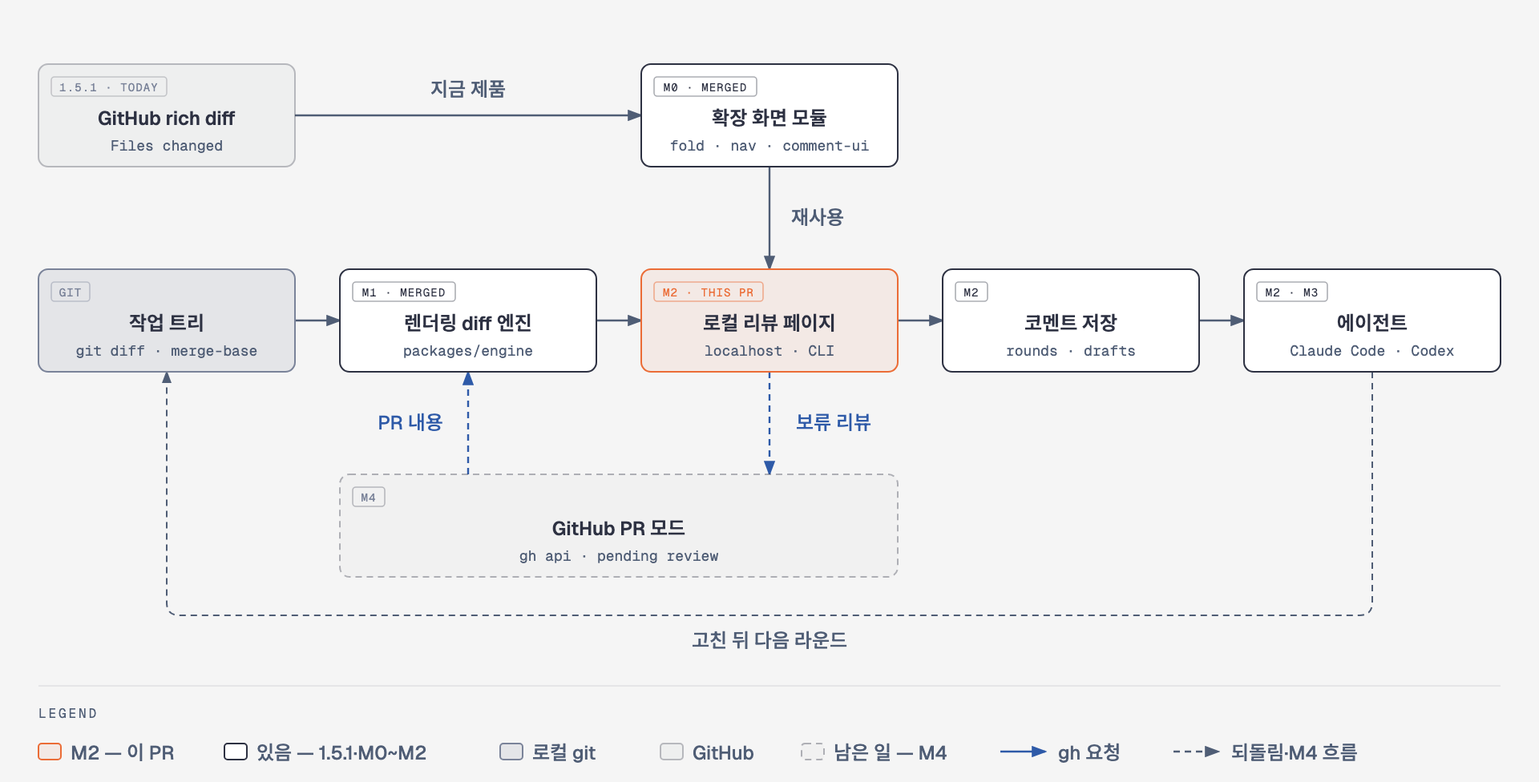
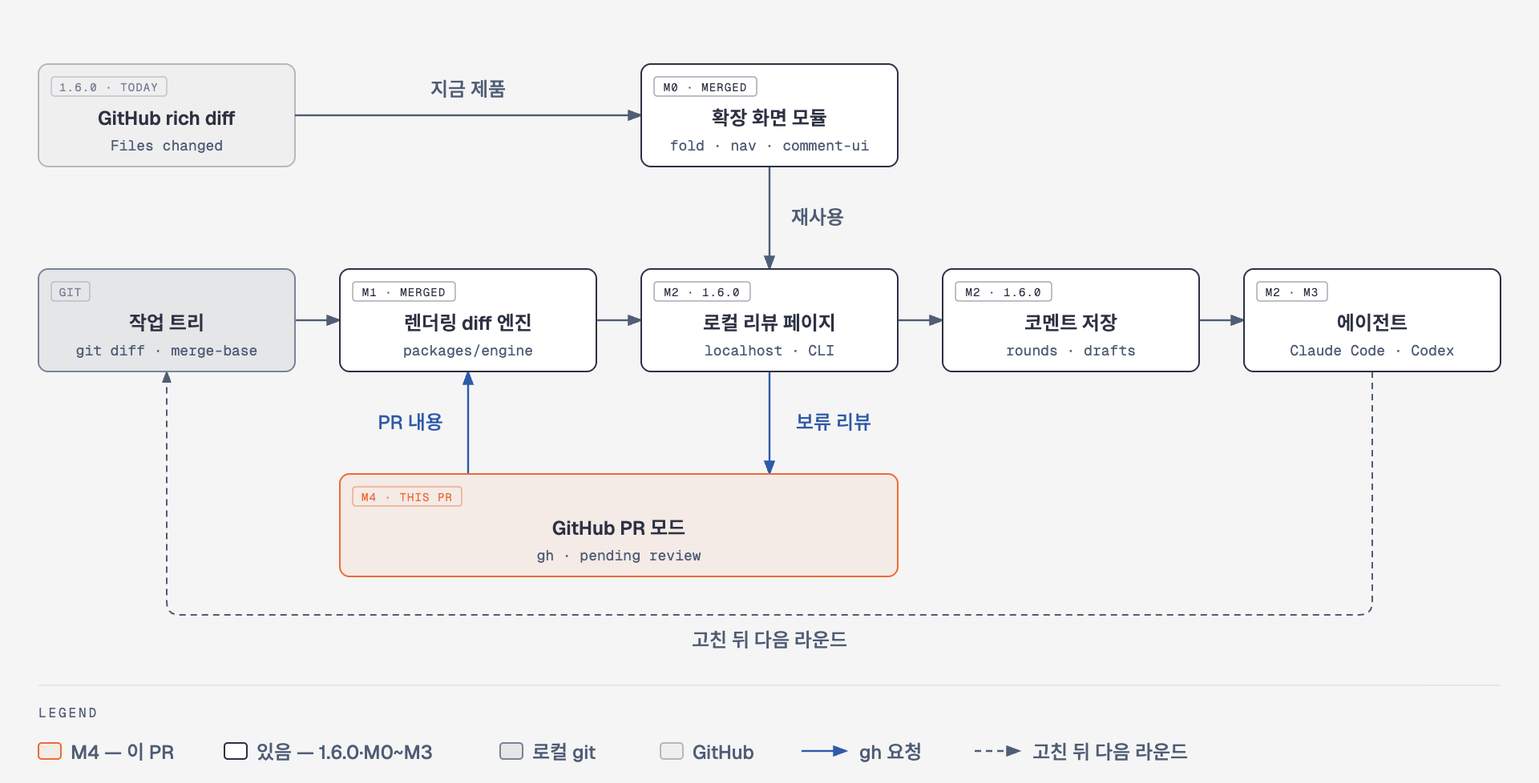
docs: local review M4 — PR mode in the package README, design status, roadmap, diagram

diff --git a/docs/local-review/diagrams/overview.html b/docs/local-review/diagrams/overview.html
@@ -34,12 +34,12 @@
 </head>
 <body>
   <div class="frame">
-    <p class="eyebrow">Architecture · 2026-10-18 · M2</p>
+    <p class="eyebrow">Architecture · 2026-10-23 · M4</p>
     <h1>Markdown Diff Cat 로컬 리뷰 — 전체 설계와 진행</h1>
     <div class="diagram-container">
       <svg viewBox="0 0 960 488" xmlns="http://www.w3.org/2000/svg" role="img" aria-labelledby="local-review-overview-title local-review-overview-desc">
         <title id="local-review-overview-title">Markdown Diff Cat 로컬 리뷰 — 전체 설계와 진행</title>
-        <desc id="local-review-overview-desc">크롬 확장의 화면 모듈과 렌더링 diff 엔진으로 로컬 git 변경을 리뷰하고 코멘트를 에이전트에게 넘기는 설계에서, 있는 것(1.5.1·M0·M1·M2)과 남은 것(M3·M4)을 나눠 보인다.</desc>
+        <desc id="local-review-overview-desc">크롬 확장의 화면 모듈과 렌더링 diff 엔진으로 로컬 git 변경과 GitHub PR을 리뷰하고 코멘트를 에이전트나 보류 중 리뷰로 넘기는 설계에서, 게시된 것(1.6.0·M0~M3)과 이 PR(M4)을 나눠 보인다.</desc>
         <defs>
           <marker id="arrow" markerWidth="8" markerHeight="6" refX="7" refY="3" orient="auto"><polygon points="0 0, 8 3, 0 6" fill="#4f5d75"/></marker>
           <marker id="arrow-accent" markerWidth="8" markerHeight="6" refX="7" refY="3" orient="auto"><polygon points="0 0, 8 3, 0 6" fill="#eb6c36"/></marker>
@@ -61,9 +61,9 @@
   <!-- 코멘트 저장 → 에이전트 (M2) -->
   <line x1="748" y1="200" x2="776" y2="200" stroke="#4f5d75" stroke-width="1.2" marker-end="url(#arrow)"/>
   <!-- GitHub PR → 엔진 (M4, gh) -->
-  <line x1="292" y1="296" x2="292" y2="232" stroke="#2e5aa8" stroke-width="1.2" stroke-dasharray="4,3" marker-end="url(#arrow-link)"/>
+  <line x1="292" y1="296" x2="292" y2="232" stroke="#2e5aa8" stroke-width="1.2" marker-end="url(#arrow-link)"/>
   <!-- 페이지 → GitHub PR (M4, 보류 중 리뷰) -->
-  <line x1="480" y1="232" x2="480" y2="296" stroke="#2e5aa8" stroke-width="1.2" stroke-dasharray="4,3" marker-end="url(#arrow-link)"/>
+  <line x1="480" y1="232" x2="480" y2="296" stroke="#2e5aa8" stroke-width="1.2" marker-end="url(#arrow-link)"/>
   <!-- 에이전트 → 작업 트리 (고친 뒤 다음 라운드) -->
   <path d="M 856,232 V 376 Q 856,384 848,384 H 112 Q 104,384 104,376 V 232" fill="none" stroke="#4f5d75" stroke-width="1" stroke-dasharray="4,3" marker-end="url(#arrow)"/>
 
@@ -86,7 +86,7 @@
   <rect x="24" y="40" width="160" height="64" rx="6" fill="#f5f5f5"/>
   <rect x="24" y="40" width="160" height="64" rx="6" fill="rgba(45,49,66,0.03)" stroke="rgba(45,49,66,0.30)" stroke-width="1"/>
   <rect x="32" y="48" width="72" height="12" rx="2" fill="transparent" stroke="rgba(45,49,66,0.22)" stroke-width="0.8"/>
-  <text x="68" y="57" fill="#7a8399" font-size="7" font-family="'Geist Mono', monospace" text-anchor="middle" letter-spacing="0.08em">1.5.1 · TODAY</text>
+  <text x="68" y="57" fill="#7a8399" font-size="7" font-family="'Geist Mono', monospace" text-anchor="middle" letter-spacing="0.08em">1.6.0 · TODAY</text>
   <text x="104" y="78" fill="#2d3142" font-size="12" font-weight="600" font-family="'Geist', 'Noto Sans KR', 'Apple SD Gothic Neo', 'Malgun Gothic', sans-serif" text-anchor="middle">GitHub rich diff</text>
   <text x="104" y="94" fill="#4f5d75" font-size="9" font-family="'Geist Mono', monospace" text-anchor="middle">Files changed</text>
 
@@ -116,17 +116,17 @@
 
   <!-- node: 로컬 리뷰 페이지 -->
   <rect x="400" y="168" width="160" height="64" rx="6" fill="#f5f5f5"/>
-  <rect x="400" y="168" width="160" height="64" rx="6" fill="rgba(235,108,54,0.08)" stroke="#eb6c36" stroke-width="1"/>
-  <rect x="408" y="176" width="68" height="12" rx="2" fill="transparent" stroke="rgba(235,108,54,0.50)" stroke-width="0.8"/>
-  <text x="442" y="185" fill="#eb6c36" font-size="7" font-family="'Geist Mono', monospace" text-anchor="middle" letter-spacing="0.08em">M2 · THIS PR</text>
+  <rect x="400" y="168" width="160" height="64" rx="6" fill="#ffffff" stroke="#2d3142" stroke-width="1"/>
+  <rect x="408" y="176" width="60" height="12" rx="2" fill="transparent" stroke="rgba(45,49,66,0.40)" stroke-width="0.8"/>
+  <text x="438" y="185" fill="#2d3142" font-size="7" font-family="'Geist Mono', monospace" text-anchor="middle" letter-spacing="0.08em">M2 · 1.6.0</text>
   <text x="480" y="206" fill="#2d3142" font-size="12" font-weight="600" font-family="'Geist', 'Noto Sans KR', 'Apple SD Gothic Neo', 'Malgun Gothic', sans-serif" text-anchor="middle">로컬 리뷰 페이지</text>
   <text x="480" y="222" fill="#4f5d75" font-size="9" font-family="'Geist Mono', monospace" text-anchor="middle">localhost · CLI</text>
 
   <!-- node: 코멘트 저장 -->
   <rect x="588" y="168" width="160" height="64" rx="6" fill="#f5f5f5"/>
   <rect x="588" y="168" width="160" height="64" rx="6" fill="#ffffff" stroke="#2d3142" stroke-width="1"/>
-  <rect x="596" y="176" width="20" height="12" rx="2" fill="transparent" stroke="rgba(45,49,66,0.40)" stroke-width="0.8"/>
-  <text x="606" y="185" fill="#2d3142" font-size="7" font-family="'Geist Mono', monospace" text-anchor="middle" letter-spacing="0.08em">M2</text>
+  <rect x="596" y="176" width="60" height="12" rx="2" fill="transparent" stroke="rgba(45,49,66,0.40)" stroke-width="0.8"/>
+  <text x="626" y="185" fill="#2d3142" font-size="7" font-family="'Geist Mono', monospace" text-anchor="middle" letter-spacing="0.08em">M2 · 1.6.0</text>
   <text x="668" y="206" fill="#2d3142" font-size="12" font-weight="600" font-family="'Geist', 'Noto Sans KR', 'Apple SD Gothic Neo', 'Malgun Gothic', sans-serif" text-anchor="middle">코멘트 저장</text>
   <text x="668" y="222" fill="#4f5d75" font-size="9" font-family="'Geist Mono', monospace" text-anchor="middle">rounds · drafts</text>
 
@@ -140,32 +140,30 @@
 
   <!-- node: GitHub PR 모드 -->
   <rect x="212" y="296" width="348" height="64" rx="6" fill="#f5f5f5"/>
-  <rect x="212" y="296" width="348" height="64" rx="6" fill="rgba(45,49,66,0.02)" stroke="rgba(45,49,66,0.35)" stroke-width="1" stroke-dasharray="4,3"/>
-  <rect x="220" y="304" width="20" height="12" rx="2" fill="transparent" stroke="rgba(45,49,66,0.30)" stroke-width="0.8"/>
-  <text x="230" y="313" fill="#7a8399" font-size="7" font-family="'Geist Mono', monospace" text-anchor="middle" letter-spacing="0.08em">M4</text>
+  <rect x="212" y="296" width="348" height="64" rx="6" fill="rgba(235,108,54,0.08)" stroke="#eb6c36" stroke-width="1"/>
+  <rect x="220" y="304" width="68" height="12" rx="2" fill="transparent" stroke="rgba(235,108,54,0.50)" stroke-width="0.8"/>
+  <text x="254" y="313" fill="#eb6c36" font-size="7" font-family="'Geist Mono', monospace" text-anchor="middle" letter-spacing="0.08em">M4 · THIS PR</text>
   <text x="386" y="334" fill="#2d3142" font-size="12" font-weight="600" font-family="'Geist', 'Noto Sans KR', 'Apple SD Gothic Neo', 'Malgun Gothic', sans-serif" text-anchor="middle">GitHub PR 모드</text>
-  <text x="386" y="350" fill="#4f5d75" font-size="9" font-family="'Geist Mono', monospace" text-anchor="middle">gh api · pending review</text>
+  <text x="386" y="350" fill="#4f5d75" font-size="9" font-family="'Geist Mono', monospace" text-anchor="middle">gh · pending review</text>
 
   <!-- legend -->
   <line x1="24" y1="428" x2="936" y2="428" stroke="rgba(45,49,66,0.10)" stroke-width="0.8"/>
   <text x="24" y="448" fill="#4f5d75" font-size="8" font-family="'Geist Mono', monospace" letter-spacing="0.18em">LEGEND</text>
   <rect x="24" y="464" width="14" height="10" rx="2" fill="rgba(235,108,54,0.08)" stroke="#eb6c36" stroke-width="1"/>
-  <text x="44" y="474" fill="#4f5d75" font-size="12" font-weight="500" font-family="'Geist', 'Noto Sans KR', 'Apple SD Gothic Neo', 'Malgun Gothic', sans-serif">M2 — 이 PR</text>
+  <text x="44" y="474" fill="#4f5d75" font-size="12" font-weight="500" font-family="'Geist', 'Noto Sans KR', 'Apple SD Gothic Neo', 'Malgun Gothic', sans-serif">M4 — 이 PR</text>
   <rect x="140" y="464" width="14" height="10" rx="2" fill="#ffffff" stroke="#2d3142" stroke-width="1"/>
-  <text x="160" y="474" fill="#4f5d75" font-size="12" font-weight="500" font-family="'Geist', 'Noto Sans KR', 'Apple SD Gothic Neo', 'Malgun Gothic', sans-serif">있음 — 1.5.1·M0~M2</text>
+  <text x="160" y="474" fill="#4f5d75" font-size="12" font-weight="500" font-family="'Geist', 'Noto Sans KR', 'Apple SD Gothic Neo', 'Malgun Gothic', sans-serif">있음 — 1.6.0·M0~M3</text>
   <rect x="312" y="464" width="14" height="10" rx="2" fill="rgba(79,93,117,0.10)" stroke="#7a8399" stroke-width="1"/>
   <text x="332" y="474" fill="#4f5d75" font-size="12" font-weight="500" font-family="'Geist', 'Noto Sans KR', 'Apple SD Gothic Neo', 'Malgun Gothic', sans-serif">로컬 git</text>
   <rect x="412" y="464" width="14" height="10" rx="2" fill="rgba(45,49,66,0.03)" stroke="rgba(45,49,66,0.30)" stroke-width="1"/>
   <text x="432" y="474" fill="#4f5d75" font-size="12" font-weight="500" font-family="'Geist', 'Noto Sans KR', 'Apple SD Gothic Neo', 'Malgun Gothic', sans-serif">GitHub</text>
-  <rect x="500" y="464" width="14" height="10" rx="2" fill="rgba(45,49,66,0.02)" stroke="rgba(45,49,66,0.35)" stroke-width="1" stroke-dasharray="4,3"/>
-  <text x="520" y="474" fill="#4f5d75" font-size="12" font-weight="500" font-family="'Geist', 'Noto Sans KR', 'Apple SD Gothic Neo', 'Malgun Gothic', sans-serif">남은 일 — M4</text>
-  <line x1="624" y1="469" x2="652" y2="469" stroke="#2e5aa8" stroke-width="1.2" marker-end="url(#arrow-link)"/>
-  <text x="660" y="474" fill="#4f5d75" font-size="12" font-weight="500" font-family="'Geist', 'Noto Sans KR', 'Apple SD Gothic Neo', 'Malgun Gothic', sans-serif">gh 요청</text>
-  <line x1="732" y1="469" x2="760" y2="469" stroke="#4f5d75" stroke-width="1.2" stroke-dasharray="4,3" marker-end="url(#arrow)"/>
-  <text x="768" y="474" fill="#4f5d75" font-size="12" font-weight="500" font-family="'Geist', 'Noto Sans KR', 'Apple SD Gothic Neo', 'Malgun Gothic', sans-serif">되돌림·M4 흐름</text>
+  <line x1="500" y1="469" x2="528" y2="469" stroke="#2e5aa8" stroke-width="1.2" marker-end="url(#arrow-link)"/>
+  <text x="536" y="474" fill="#4f5d75" font-size="12" font-weight="500" font-family="'Geist', 'Noto Sans KR', 'Apple SD Gothic Neo', 'Malgun Gothic', sans-serif">gh 요청</text>
+  <line x1="608" y1="469" x2="636" y2="469" stroke="#4f5d75" stroke-width="1.2" stroke-dasharray="4,3" marker-end="url(#arrow)"/>
+  <text x="644" y="474" fill="#4f5d75" font-size="12" font-weight="500" font-family="'Geist', 'Noto Sans KR', 'Apple SD Gothic Neo', 'Malgun Gothic', sans-serif">고친 뒤 다음 라운드</text>
       </svg>
     </div>
-    <p class="note">실선 상자는 있는 것이다. 크롬 확장 1.5.1은 GitHub가 그린 rich diff를 다듬고, M0에서 그 화면 모듈을 확장 밖에서도 쓰게 떼어 냈고, M1은 로컬 git의 옛·새 원문으로 GitHub와 같은 표기의 HTML을 그리는 엔진이다. M2(주황)는 리뷰 페이지·로컬 서버·CLI·코멘트 저장·에이전트에게 넘기기다. 점선은 남은 일 — M3 Codex 주석, M4 GitHub PR 모드.</p>
+    <p class="note">크롬 확장은 GitHub가 그린 rich diff를 다듬고, M0에서 그 화면 모듈을 확장 밖에서도 쓰게 떼어 냈고, M1은 로컬 git의 옛·새 원문으로 GitHub와 같은 표기의 HTML을 그리는 엔진이다. M2는 리뷰 페이지·로컬 서버·CLI·코멘트 저장·에이전트에게 넘기기, M3은 Codex 주석이다(1.6.0으로 게시). M4(주황)는 GitHub PR 모드 — gh로 PR을 받아 같은 페이지에 그리고, 코멘트는 사람이 누를 때 내 보류 중 리뷰에만 넣는다.</p>
   </div>
 </body>
 </html>

diff --git a/packages/review/test/readme.test.ts b/packages/review/test/readme.test.ts
@@ -11,6 +11,15 @@ describe('npm README', () => {
     expect(readme).toContain('Nothing leaves your machine by default.');
     expect(readme).toContain('only through the GitHub CLI');
   });
+  it('PR 모드 — 명령·gh·보류 중 리뷰만·받은 ref·제출은 사람', () => {
+    expect(readme).toContain('## Review a pull request');
+    expect(readme).toContain('review --pr <number|URL>');
+    expect(readme).toContain('gh auth login');
+    expect(readme).toContain('Add to pending review');
+    expect(readme).toContain('You submit the review on GitHub');
+    expect(readme).toContain('refs/markdown-diff-cat/');
+    expect(readme).not.toContain('A pull request mode is planned');
+  });
   it('개인 홈 경로를 싣지 않는다(공개 패키지)', () => {
     expect(readme).not.toMatch(/\/Users\/[a-z]|\/home\/[a-z]/);
   });

diff --git a/docs/local-review/diagrams/src/d1_overview.py b/docs/local-review/diagrams/src/d1_overview.py
@@ -21,9 +21,9 @@ P.append(f'''
   <!-- 코멘트 저장 → 에이전트 (M2) -->
   <line x1="748" y1="200" x2="776" y2="200" stroke="{MUTED}" stroke-width="1.2" marker-end="url(#arrow)"/>
   <!-- GitHub PR → 엔진 (M4, gh) -->
-  <line x1="292" y1="296" x2="292" y2="232" stroke="{LINK}" stroke-width="1.2" stroke-dasharray="4,3" marker-end="url(#arrow-link)"/>
+  <line x1="292" y1="296" x2="292" y2="232" stroke="{LINK}" stroke-width="1.2" marker-end="url(#arrow-link)"/>
   <!-- 페이지 → GitHub PR (M4, 보류 중 리뷰) -->
-  <line x1="480" y1="232" x2="480" y2="296" stroke="{LINK}" stroke-width="1.2" stroke-dasharray="4,3" marker-end="url(#arrow-link)"/>
+  <line x1="480" y1="232" x2="480" y2="296" stroke="{LINK}" stroke-width="1.2" marker-end="url(#arrow-link)"/>
   <!-- 에이전트 → 작업 트리 (고친 뒤 다음 라운드) -->
   <path d="M 856,232 V 376 Q 856,384 848,384 H 112 Q 104,384 104,376 V 232" fill="none" stroke="{MUTED}" stroke-width="1" stroke-dasharray="4,3" marker-end="url(#arrow)"/>''')
 
@@ -39,24 +39,24 @@ for (cx, cy, t, c) in [
     P.append(svg)
 
 # --- nodes ---
-P.append(node(24, 40, 160, 64, 'external', '1.5.1 · TODAY', 'GitHub rich diff', 'Files changed'))
+P.append(node(24, 40, 160, 64, 'external', '1.6.0 · TODAY', 'GitHub rich diff', 'Files changed'))
 P.append(node(400, 40, 160, 64, 'backend', 'M0 · MERGED', '확장 화면 모듈', 'fold · nav · comment-ui'))
 P.append(node(24, 168, 160, 64, 'input', 'GIT', '작업 트리', 'git diff · merge-base'))
 P.append(node(212, 168, 160, 64, 'backend', 'M1 · MERGED', '렌더링 diff 엔진', 'packages/engine'))
-P.append(node(400, 168, 160, 64, 'focal', 'M2 · THIS PR', '로컬 리뷰 페이지', 'localhost · CLI'))
-P.append(node(588, 168, 160, 64, 'backend', 'M2', '코멘트 저장', 'rounds · drafts'))
+P.append(node(400, 168, 160, 64, 'backend', 'M2 · 1.6.0', '로컬 리뷰 페이지', 'localhost · CLI'))
+P.append(node(588, 168, 160, 64, 'backend', 'M2 · 1.6.0', '코멘트 저장', 'rounds · drafts'))
 P.append(node(776, 168, 160, 64, 'backend', 'M2 · M3', '에이전트', 'Claude Code · Codex'))
-P.append(node(212, 296, 348, 64, 'optional', 'M4', 'GitHub PR 모드', 'gh api · pending review'))
+P.append(node(212, 296, 348, 64, 'focal', 'M4 · THIS PR', 'GitHub PR 모드', 'gh · pending review'))
 
 P.append(legend(428, [
-    ('focal', 'M2 — 이 PR'), ('backend', '있음 — 1.5.1·M0~M2'), ('input', '로컬 git'), ('external', 'GitHub'),
-    ('optional', '남은 일 — M4'), ('arrow-link', 'gh 요청'), ('arrow-dash', '되돌림·M4 흐름'),
+    ('focal', 'M4 — 이 PR'), ('backend', '있음 — 1.6.0·M0~M3'), ('input', '로컬 git'), ('external', 'GitHub'),
+    ('arrow-link', 'gh 요청'), ('arrow-dash', '고친 뒤 다음 라운드'),
 ]))
 
-note = '''<p class="note">실선 상자는 있는 것이다. 크롬 확장 1.5.1은 GitHub가 그린 rich diff를 다듬고, M0에서 그 화면 모듈을 확장 밖에서도 쓰게 떼어 냈고, M1은 로컬 git의 옛·새 원문으로 GitHub와 같은 표기의 HTML을 그리는 엔진이다. M2(주황)는 리뷰 페이지·로컬 서버·CLI·코멘트 저장·에이전트에게 넘기기다. 점선은 남은 일 — M3 Codex 주석, M4 GitHub PR 모드.</p>'''
+note = '''<p class="note">크롬 확장은 GitHub가 그린 rich diff를 다듬고, M0에서 그 화면 모듈을 확장 밖에서도 쓰게 떼어 냈고, M1은 로컬 git의 옛·새 원문으로 GitHub와 같은 표기의 HTML을 그리는 엔진이다. M2는 리뷰 페이지·로컬 서버·CLI·코멘트 저장·에이전트에게 넘기기, M3은 Codex 주석이다(1.6.0으로 게시). M4(주황)는 GitHub PR 모드 — gh로 PR을 받아 같은 페이지에 그리고, 코멘트는 사람이 누를 때 내 보류 중 리뷰에만 넣는다.</p>'''
 
 open(OUT, 'w').write(page(
-    'local-review-overview', 'Architecture · 2026-10-18 · M2', 'Markdown Diff Cat 로컬 리뷰 — 전체 설계와 진행',
-    '크롬 확장의 화면 모듈과 렌더링 diff 엔진으로 로컬 git 변경을 리뷰하고 코멘트를 에이전트에게 넘기는 설계에서, 있는 것(1.5.1·M0·M1·M2)과 남은 것(M3·M4)을 나눠 보인다.',
+    'local-review-overview', 'Architecture · 2026-10-23 · M4', 'Markdown Diff Cat 로컬 리뷰 — 전체 설계와 진행',
+    '크롬 확장의 화면 모듈과 렌더링 diff 엔진으로 로컬 git 변경과 GitHub PR을 리뷰하고 코멘트를 에이전트나 보류 중 리뷰로 넘기는 설계에서, 게시된 것(1.6.0·M0~M3)과 이 PR(M4)을 나눠 보인다.',
     VW, VH, '\n'.join(P), note))
 print('wrote', OUT)

diff --git a/docs/local-review/README.md b/docs/local-review/README.md
@@ -1,6 +1,6 @@
 # 로컬 리뷰 — GitHub PR 밖에서 렌더링 마크다운 diff를 보고 코멘트하기
 
-> 최종 확인 2026-10-18 · [ROADMAP](../../ROADMAP.md) · 엔진: [packages/engine](../../packages/engine/README.md) · GitHub와 받아들인 차이: [KNOWN-DIFFERENCES](../../packages/engine/parity/KNOWN-DIFFERENCES.md)
+> 최종 확인 2026-10-23 · [ROADMAP](../../ROADMAP.md) · 엔진: [packages/engine](../../packages/engine/README.md) · GitHub와 받아들인 차이: [KNOWN-DIFFERENCES](../../packages/engine/parity/KNOWN-DIFFERENCES.md)
 
 이 문서는 로컬 리뷰의 설계, 지금까지 만든 것, 남은 일을 한곳에 모은 기록이다. 마일스톤 PR이 병합될 때마다 **2. 지금 어디까지 왔나**와 **6. 남은 일**을 같은 PR에서 고친다.
 
@@ -8,11 +8,11 @@
 
 코딩 에이전트가 고친 `AGENTS.md`·`SKILL.md`·문서 같은 마크다운을, PR을 열기 전에 **내 컴퓨터에서** GitHub rich diff와 같은 렌더링 diff로 보고, 블록에 코멘트를 달아 에이전트에게 넘기는 도구를 만든다.
 
-크롬 확장(1.5.1)은 GitHub PR "Files changed" 화면에서만 돈다. GitHub가 그린 rich diff를 확장이 다듬는 방식이라, GitHub에 올리기 전의 변경에는 쓸 수 없다. 로컬 리뷰는 같은 화면(접기·표 합치기·이동·코멘트 상자)을 로컬 git 변경에 그대로 쓰게 한다.
+크롬 확장(1.6.0)은 GitHub PR "Files changed" 화면에서만 돈다. GitHub가 그린 rich diff를 확장이 다듬는 방식이라, GitHub에 올리기 전의 변경에는 쓸 수 없다. 로컬 리뷰는 같은 화면(접기·표 합치기·이동·코멘트 상자)을 로컬 git 변경에 그대로 쓰게 한다.
 
 ## 1. 전체 설계
 
-<img src="diagrams/overview.png" width="760" alt="전체 설계와 진행 — 작업 트리에서 렌더링 diff 엔진, 로컬 리뷰 페이지, 코멘트 저장, 에이전트로 가는 흐름과 GitHub PR 모드. 엔진(M1)과 확장 화면 모듈(M0)은 있고, 페이지·저장·에이전트·PR 모드는 점선(남은 일)">
+<img src="diagrams/overview.png" width="760" alt="전체 설계와 진행 — 작업 트리에서 렌더링 diff 엔진, 로컬 리뷰 페이지, 코멘트 저장, 에이전트로 가는 흐름과 GitHub PR 모드. M0~M3은 1.6.0으로 게시됐고, GitHub PR 모드(M4)가 이 PR이다">
 
 [그림 HTML](diagrams/overview.html)
 
@@ -23,23 +23,23 @@
 | 로컬 리뷰 페이지 + CLI | 로컬 서버가 엔진 HTML을 페이지로 보여 주고, 확장 화면 모듈로 접기·코멘트를 붙인다 | `packages/review` — **M2** |
 | 코멘트 저장 | 라운드·보낸 코멘트·임시 글을 `.git` 밖 사용자 상태 폴더에 | **M2** |
 | 에이전트에게 넘기기 | 코멘트를 정해진 형식으로 에이전트(Claude Code)에게, 고친 뒤 `--since-last`로 다음 라운드 | **M2**(Claude Code) · **M3**(Codex 주석) |
-| GitHub PR 모드 | `gh`로 PR 내용을 받아 같은 페이지에서 보고, 코멘트는 보류 중 리뷰(pending review)에 올린다 — 공개는 사람이 GitHub에서 | **M4** |
+| GitHub PR 모드 | `gh`로 PR 내용을 받아 같은 페이지에서 보고, 코멘트는 보류 중 리뷰(pending review)에 올린다 — 공개는 사람이 GitHub에서 | **M4** — `packages/review/src/`의 `gh.ts`·`pr.ts`·`github.ts`·`hunks.ts`·`pr-session.ts` |
 
 같은 엔진이 확장 안에서도 돈다 — GitHub가 렌더링 diff를 못 만든 큰 md 파일을 브라우저에서 그린다([docs/local-render](../local-render/README.md)).
 
 설계의 중심은 **엔진이 GitHub와 같은 표기의 HTML을 낸다**는 것이다. 그러면 확장이 GitHub 화면에서 쓰던 접기·표 합치기·이동·코멘트 코드를 다시 쓰지 않고 그대로 쓸 수 있고, 로컬에서 본 모양과 PR에서 볼 모양이 같다. 그래서 새로 만드는 것은 엔진과 페이지·서버·CLI뿐이다.
 
-## 2. 지금 어디까지 왔나 (2026-10-18)
+## 2. 지금 어디까지 왔나 (2026-10-23)
 
-설계만 한 것이 아니다. 확장 리팩터(M0)와 엔진(M1)은 병합됐고, 사람이 실제로 쓰는 도구(M2)는 구현을 끝내 PR이 열려 있다(브랜치 `feat/local-review-m2`).
+M0~M3은 병합됐고 1.6.0으로 스토어·GitHub Release·npm(`markdown-diff-cat@1.6.0`)에 게시됐다(2026-10-22). M4(GitHub PR 모드)는 구현을 끝내 PR을 연다(브랜치 `feat/local-review-m4`). M4가 병합되면 MVP 범위(스펙 §11-1)의 마일스톤이 모두 끝난다 — 남는 것은 사람이 하는 실기 점검(Codex·PR 모드)과 testbed 쓰기 E2E 실행이다.
 
 | 마일스톤 | 무엇 | 상태 |
 |---|---|---|
 | **M0** | 확장 리팩터(동작 그대로) — markdown-it 15, 공용 타입(`src/types.ts`)·렌더링 표기(`src/prose-markup.ts`), `align` 한도 인자, `i18n` 밖에서 쓰기, `comment-ui` 옵션, `comments.ts`의 화면 동작을 `CommentController` + `CommentBackend`로 분리, `packages/*` 워크스페이스 | ✅ **병합** — [#47](https://github.com/drum-grammer/GITHUB-MD-DIFF/pull/47)(2026-10-17). 관문: `pnpm verify pr` 7/7, 연결률 기준선 그대로 |
 | **M1** | 렌더링 diff 엔진 `packages/engine` + GitHub 패리티 하네스(`pnpm parity`·`parity:capture`·`parity:setup`) + 정화 | ✅ **병합** — [#48](https://github.com/drum-grammer/GITHUB-MD-DIFF/pull/48)(2026-10-17). 시험 670개(엔진 272) · 패리티 87.0% · 줄 속성 빠짐 0 · `pnpm verify pr` 7/7 |
-| **M2** | 작업 트리 모드 — `packages/review`(CLI·로컬 서버·리뷰 페이지·코멘트 저장·에이전트에게 넘기기·skill) + npm 게시 | 🔵 **PR 열림** — 브랜치 `feat/local-review-m2`. M2 전 수정 5개 끝 · 패리티 91.1% · `pnpm verify pr` 10/10 · Claude Code 데스크톱 실기(2026-10-20) |
+| **M2** | 작업 트리 모드 — `packages/review`(CLI·로컬 서버·리뷰 페이지·코멘트 저장·에이전트에게 넘기기·skill) + npm 게시 | ✅ **병합** — [#49](https://github.com/drum-grammer/GITHUB-MD-DIFF/pull/49)(2026-10-20), 1.6.0으로 npm 게시(2026-10-22). M2 전 수정 5개 끝 · 패리티 91.1% · `pnpm verify pr` 10/10 · Claude Code 데스크톱 실기(2026-10-20) |
 | **M3** | Codex 주석 속성 + Codex용 skill | ✅ **병합** — [#50](https://github.com/drum-grammer/GITHUB-MD-DIFF/pull/50)(2026-10-20, Codex 실기 전 — 관리자 결정). 잎마다 `oai-annotatable`·`oai-annotation-metadata`(6키), 본문 `oai-annotation-container`, `show --side old\|new`(옛 쪽 주석 대조), skill 5단계 · Codex 실기는 [점검표](../../packages/review/docs/codex-checklist.md)로 사람이 |
-| **M4** | GitHub PR 모드(`review --pr`) | ⬜ |
+| **M4** | GitHub PR 모드(`review --pr`) | 🔵 **구현 끝 — PR** — 브랜치 `feat/local-review-m4`. `gh`(셸 없음, 글은 stdin JSON) · PR ref 받기(`refs/markdown-diff-cat/pr/<n>/*`, 포크면 base 저장소 원격) · 기존 스레드·답글 · GitHub hunk로 줄 맞추기(자르기·파일 스레드) · 확인 상자 → 내 보류 중 리뷰에만 · 새 커밋이면 멈춤 · 에이전트에게 보내기(남의 스레드는 고른 것만). `packages/review` 단위 시험 250 · E2E 16(네트워크 없는 PR 한 바퀴 포함) · 공개 testbed 쓰기 E2E(`MDC_PR_TESTBED=1`)는 관리자 확인 뒤 |
 | 다음 | VS Code 확장 → JetBrains 플러그인 | ⬜ 따로 설계 |
 
 M1 끝에 정한 값(패리티 첫 보고서 근거):
@@ -103,7 +103,7 @@ M1 끝에 정한 값(패리티 첫 보고서 근거):
 4. ✅ 알림 종류를 바꾸면(WARNING→CAUTION) GitHub처럼 옛 제목 `<del>` + 새 제목 `<ins>`, 본문은 변경 없음으로(패리티) · 518194c
 5. ✅ 고친 잎의 옛 사본(`.removed`)은 `data-mdc-new`·`data-mdc-old`를 둘 다 단다 — 로컬 백엔드는 `REMOVED_BLOCK`으로 왼쪽(옛) 쪽을 고른다(M1 검토) · Task 13 시험
 
-**M2 — 작업 트리 모드**(`packages/review`, 브랜치 `feat/local-review-m2`):
+**M2 — 작업 트리 모드**(`packages/review`, 병합 [#49](https://github.com/drum-grammer/GITHUB-MD-DIFF/pull/49), 1.6.0으로 게시):
 
 - CLI `markdown-diff-cat` — `review`(리뷰 페이지 열기)·`comments`(넘기기 형식으로 코멘트 읽기)·`wait`·`mark`·`rev`·`show`·`--since-last`(지난 라운드 뒤 바뀐 것만)
 - `git.ts`(기준·파일 목록·내용, 읽기만) · `state.ts`(`.git` 밖 상태 폴더 — 렌더 판 고정·정리, 라운드·보낸 것·표시·임시 글) · `handoff.ts`(에이전트에게 넘기는 형식)
@@ -114,7 +114,11 @@ M1 끝에 정한 값(패리티 첫 보고서 근거):
 - npm 패키지 `markdown-diff-cat`(확장과 같은 버전, 런타임 의존 0, 한 파일) — M2 병합 뒤 확장 릴리스와 같은 태그로 게시
 
 **M3** — 병합(#50). 남은 것: Codex 실기 점검표([codex-checklist.md](../../packages/review/docs/codex-checklist.md)) — 엄격한 CSP 아래 `document.oai`, `127.0.0.1`, 샌드박스 승인. CSP가 주석 API를 막으면 그 경우에만 조정한다(설계 §11-2). 미룬 작은 것: 원문만 바뀜 막대 안 숨은 원문 diff가 두 번째 주석 대상(`kind: code`), 합친 표 복제 행의 쪽 단언.
-**M4** — PR 모드: `gh`로 PR 내용·기존 스레드를 받아 같은 페이지에서 보고, 코멘트는 보류 중 리뷰에만 올린다(제출은 사람이 GitHub에서).
+**M4** — PR 모드(브랜치 `feat/local-review-m4`, 2026-10-23 구현):
+
+- 한 것 — `review --pr <번호|URL>`, `gh auth status`·`gh pr view`로 OID 확정, 그 base 저장소를 가리키는 원격(없으면 저장소 URL)에서 `refs/pull/<n>/head`·base 브랜치를 `refs/markdown-diff-cat/pr/<n>/*`로 받기(head가 다르면 OID로 한 번 더), 옛 쪽 = 분기점. GraphQL `reviewThreads`(끝까지)로 기존 스레드를 블록 아래·파일 머리에, 낡은 것은 수만. 답글은 초안으로. "Add to pending review" → 확인 상자(`owner/repo#n`·건수·글) → 넣기 직전 head 다시 읽기 → `pulls/<n>/files`의 patch hunk로 줄 맞추기(겹침이 큰 hunk로 자르고 원래 줄을 본문에, 겹침이 없거나 patch가 없으면 인용을 붙인 파일 스레드, 줄이 바뀐 제안은 `text` 펜스로) → 내 보류 중 리뷰(없으면 REST로 PENDING 리뷰 생성) → GraphQL `addPullRequestReviewThread`·`…Reply`를 하나씩, 실패한 것만 초안으로 남김. 보내기는 고른 남의 스레드를 `@login (others)`로 펜스 안에, 머리 줄 `base … → head …`, PR head가 아닌 작업 트리면 `> Warning:` 줄. 초안은 `pr:<owner>/<repo>#<n>` 범위로 작업 트리 초안과 나뉜다. `stop --clean`이 받은 ref도 지운다. 스펙 §11-2의 GraphQL `originalLine`·`startDiffSide`는 스키마 조회로 있음을 확인(2026-10-23)
+- 남은 것 — 공개 testbed 쓰기 E2E 실행(`MDC_PR_TESTBED=1 pnpm exec playwright test pr-testbed`, 공개 쓰기라 관리자 확인 뒤 — 끝에 보류 중 리뷰를 지운다), "보류 중 리뷰는 사용자당 하나"·"diff 밖 줄 422" ⚠ 보고를 그 실행으로 확인, Claude Code·Codex 실기 점검표에 PR 모드 줄 더하기
+- 하지 않은 것(MVP 밖, 스펙 §11-1) — 즉시 게시·해결·편집·삭제, PR 모드 `--since-last`, 로컬 clone 없는 PR, GitHub Enterprise Server. 다른 모드의 서버가 떠 있으면 바꾸지 않고 `stop`을 안내한다(스펙 §5-2는 바꾸기 요청 — 세션 종류가 달라 MVP에서 막음)
 **다음** — VS Code 확장(Cursor 등 Open VSX 포함) → JetBrains 플러그인. 각각 따로 설계한다.
 
 ## 7. 그림 다시 만들기

diff --git a/ROADMAP.md b/ROADMAP.md
@@ -1,18 +1,18 @@
 # 로드맵 — 어디까지 왔고 다음은 무엇인가
 
-> 최종 확인 2026-10-22 · [README](README.md) · 조사·테스트 기록: [README · Research and test reports](README.md#research-and-test-reports) · 다음 제출 노트: [UNRELEASED](docs/releases/UNRELEASED.md)
+> 최종 확인 2026-10-23 · [README](README.md) · 조사·테스트 기록: [README · Research and test reports](README.md#research-and-test-reports) · 다음 제출 노트: [UNRELEASED](docs/releases/UNRELEASED.md)
 >
-> **English summary** — The Chrome Web Store has 1.6.0 (submitted and published 2026-10-22, with tag `v1.6.0`, a GitHub Release, and npm `markdown-diff-cat@1.6.0` the same day): Markdown files GitHub cannot render are rendered in the browser. 1.5.1 (2026-10-14) works again on the signed-in "Files changed" page after GitHub renamed its CSS module classes on 2026-10-14: it finds files by their anchor id and page structure first, accepts both class formats, and warns when it cannot read any file. Next: make the canary actually run every day, then the local-use check. How to handle the next GitHub change: [docs/runbooks/github-ui-change.md](docs/runbooks/github-ui-change.md). Local review — the same rendered Markdown diff for local git changes, outside GitHub pull requests — is in progress: the M0 refactor (#47), the M1 rendering engine with its GitHub parity harness (#48), the M2 command-line tool `markdown-diff-cat` (worktree mode, #49) and the M3 Codex annotations (#50) are merged, and M4 (pull request mode) is next; design, status and what is left: [docs/local-review](docs/local-review/README.md). The same engine now also renders, in the browser, Markdown files GitHub cannot render (its server returns 504): #52, falling back to the source diff with a reason (#51) when that fails too, released in 1.6.0; [docs/local-render](docs/local-render/README.md). This file is the place to pick up the work without any other context: read "Where things stand", then "Next", then "How to pick up".
+> **English summary** — The Chrome Web Store has 1.6.0 (submitted and published 2026-10-22, with tag `v1.6.0`, a GitHub Release, and npm `markdown-diff-cat@1.6.0` the same day): Markdown files GitHub cannot render are rendered in the browser. 1.5.1 (2026-10-14) works again on the signed-in "Files changed" page after GitHub renamed its CSS module classes on 2026-10-14: it finds files by their anchor id and page structure first, accepts both class formats, and warns when it cannot read any file. Next: make the canary actually run every day, then the local-use check. How to handle the next GitHub change: [docs/runbooks/github-ui-change.md](docs/runbooks/github-ui-change.md). Local review — the same rendered Markdown diff for local git changes, outside GitHub pull requests — is in progress: the M0 refactor (#47), the M1 rendering engine with its GitHub parity harness (#48), the M2 command-line tool `markdown-diff-cat` (worktree mode, #49) and the M3 Codex annotations (#50) are merged and released in 1.6.0, and M4 (pull request mode, `review --pr`: the same page for a GitHub pull request, comments go only to your pending review) is implemented on the branch `feat/local-review-m4`; design, status and what is left: [docs/local-review](docs/local-review/README.md). The same engine now also renders, in the browser, Markdown files GitHub cannot render (its server returns 504): #52, falling back to the source diff with a reason (#51) when that fails too, released in 1.6.0; [docs/local-render](docs/local-render/README.md). This file is the place to pick up the work without any other context: read "Where things stand", then "Next", then "How to pick up".
 
 새 세션이나 새 기여자가 이 문서 하나만 읽고 이어서 일할 수 있게 쓴다. 버전을 병합하거나 결정이 바뀌면 **지금 어디에 있나**와 **버전 연표**를 같은 PR에서 고친다.
 
-## 지금 어디에 있나 (2026-10-22)
+## 지금 어디에 있나 (2026-10-23)
 
 | | 상태 |
 |---|---|
 | 크롬 웹 스토어(공개) | **1.6.0** 게시 — 2026-10-22 API로 제출(`8b9f739`, SHA-256 `d04e7a6d…`)하고 같은 날 게시 확인(`pnpm release status`: PUBLISHED, 스토어 페이지 1.6.0). 태그 [`v1.6.0`](https://github.com/drum-grammer/GITHUB-MD-DIFF/releases/tag/v1.6.0)·GitHub Release **Latest**(스토어 zip + CLI 파일 `markdown-diff-cat-1.6.0.mjs`) · npm [`markdown-diff-cat@1.6.0`](https://www.npmjs.com/package/markdown-diff-cat) 첫 게시 |
 | `main` | **1.6.0** — 스토어·GitHub Release·npm 모두 게시(2026-10-22). 1.5.1 뒤의 새 기능: GitHub가 못 그린 md를 브라우저에서 렌더링(#52)·실패 시 원문과 까닭(#51), 로컬 리뷰 CLI `markdown-diff-cat`(M2 #49·M3 #50) |
-| 진행 중 | 로컬 리뷰 M2 — 명령줄 도구 `markdown-diff-cat`(작업 트리 모드, [packages/review](packages/review/README.md)). M3 Codex 주석 병합([#50](https://github.com/drum-grammer/GITHUB-MD-DIFF/pull/50), Codex 실기 남음) · 다음: M4 PR 모드 · 설계·진행·남은 일: [docs/local-review](docs/local-review/README.md) |
+| 진행 중 | 로컬 리뷰 **M4 PR 모드**(`review --pr <번호\|URL>`) — 구현 끝, 브랜치 `feat/local-review-m4`. GitHub PR을 같은 리뷰 페이지에서 보고, 기존 스레드·답글, 코멘트는 확인 상자를 거쳐 **내 보류 중 리뷰에만**(제출은 사람이 GitHub에서), 에이전트에게 보내기도 된다. M2 작업 트리 모드·M3 Codex 주석은 1.6.0으로 게시(Codex 실기 남음) · 설계·진행·남은 일: [docs/local-review](docs/local-review/README.md) |
 | 큰 md — 1.6.0(게시) | GitHub가 렌더링 diff를 못 만든 md(서버 504 → "This rich diff is not supported")를 확장 안 엔진으로 브라우저에서 그린다 — **로컬 렌더링** [#52](https://github.com/drum-grammer/GITHUB-MD-DIFF/pull/52)(병합 `26c153c`). 그것도 못 하면 원문 diff와 까닭 한 줄 — [#51](https://github.com/drum-grammer/GITHUB-MD-DIFF/pull/51)(병합 `b369507`). 2026-10-22 계기가 된 비공개 PR의 두 문서(437 KB·224 KB)에서 504 뒤 1–2초 안에 그려지는 것을 확인. 설계·실측: [docs/local-render](docs/local-render/README.md). 다음 MINOR(1.6.0)에 들어간다 |
 | 관리자 크롬 | 1.6.0 게시 뒤 스토어판으로 돌아간다(개발 빌드 끄기, 2026-10-22까지 `1.5.1 dev 9ed4073`으로 써 봄) — 다음 개발은 다시 `pnpm dev:chrome` |
 | 주간 카나리 | 상시 켜 둔 맥의 예약이 아직 돌지 않는다(그 맥의 화면 로그인·알림 토큰 대기). 2026-10-14 손으로 돌림: 1.5.0 깨짐 3/7 → 1.5.1 정상 9/9. `pnpm canary:status`로 멈춤을 본다 |
@@ -21,7 +21,7 @@
 
 1. **canary가 매일 실제로 돌게** — 상시 켠 맥의 화면 로그인 → 예약 확인. `pnpm canary:status`(2일 넘게 안 돌았거나 깨졌으면 종료 코드 1)를 정기 점검에 붙인다. 클래스 형식이 또 바뀌면 "클래스 이름 형식" 점검이 사용자보다 먼저 깨진다
 2. **로컬 사용 점검 — 2026-10-16** — 1주 동안 쓰며 나온 불편·오류를 1.5.x로 고친다(PATCH)
-3. **로컬 리뷰 — M4 PR 모드** — M2·M3는 1.6.0으로 스토어·Release·npm `markdown-diff-cat`과 함께 냈다(2026-10-22). 다음은 M4 PR 모드. npm 게시는 사람이 자기 터미널에서(`node scripts/release-review.mjs publish`) — npm 계정 2단계 인증이 켜져 있어야 하고, 새 패키지는 202 접수 뒤 몇 분(1.6.0은 약 7분) 처리하는 동안 `0.0.0-stage` 자리표시만 보인다. 범위: [docs/local-review §6](docs/local-review/README.md#6-남은-일)
+3. **로컬 리뷰 — M4 PR 모드 마무리** — 구현은 브랜치 `feat/local-review-m4`(2026-10-23). 남은 것: 공개 testbed 쓰기 E2E 실행(`MDC_PR_TESTBED=1 pnpm exec playwright test pr-testbed`, 관리자 확인 뒤) → 병합 → 다음 MINOR(1.7.0)로 npm·Release(확장 동작은 그대로라 스토어는 함께 낼지 관리자가 정한다). M2·M3는 1.6.0으로 스토어·Release·npm `markdown-diff-cat`과 함께 냈다(2026-10-22). npm 게시는 사람이 자기 터미널에서(`node scripts/release-review.mjs publish`) — npm 계정 2단계 인증이 켜져 있어야 하고, 새 패키지는 202 접수 뒤 몇 분(1.6.0은 약 7분) 처리하는 동안 `0.0.0-stage` 자리표시만 보인다. 범위: [docs/local-review §6](docs/local-review/README.md#6-남은-일)
 4. **쓰지 않은 1.1.1 초안 Release 정리** — 1.1.1은 스토어에 내지 않았다(내용은 1.5.0에 포함). 초안을 지울지는 관리자가 정한다
 5. **개선 후보**(수요·여유에 따라, 위에서부터)
 

diff --git a/packages/review/README.md b/packages/review/README.md
@@ -9,6 +9,7 @@ It is the command-line companion of [Markdown Diff Cat for GitHub](https://chrom
 - macOS or Linux (Windows is not supported yet)
 - Node.js 22.19 or newer
 - git
+- For pull request mode only: the [GitHub CLI](https://cli.github.com) (`gh`), signed in with `gh auth login`
 
 ## Quick start
 
@@ -38,17 +39,32 @@ By default, the branch point → your working tree, including uncommitted and un
 
 Edits that do not change the rendering (Markdown syntax, a link target, an HTML comment, zero-width characters) are not folded away. They show as a "Source changed — not visible in the rendering" bar that opens the source diff.
 
+## Review a pull request
+
+```bash
+npx -y markdown-diff-cat review --pr 123
+```
+
+`review --pr <number|URL>` takes the number or the pull request URL (`https://github.com/<owner>/<repo>/pull/123`) and shows that pull request in the same page. Run it in a clone of the repository. It fetches the pull request into `refs/markdown-diff-cat/pr/<number>/` without touching your branches or working tree, and compares the merge base with the pull request head, the way GitHub's "Files changed" does. In a fork, it fetches from the remote that points at the base repository.
+
+- Existing review threads appear under their blocks (whole-file threads at the top of the file; outdated ones are counted and left on GitHub). You can reply to them.
+- Your comments stay drafts in the page until you press **Add to pending review** and confirm. They then go to **your pending review** on GitHub. Nothing is published from the page: You submit the review on GitHub. If you already started a review there, they are added to it.
+- GitHub accepts line comments only on lines inside the pull request's diff. A comment that reaches outside it is trimmed to the changed lines, and one on unchanged lines becomes a comment on the whole file with the quoted lines; the comment says so.
+- If new commits arrive after you opened the page, nothing is added — redraw and check your comments first.
+- **Send to agent** works here too, for fixing your own pull request: your comments, plus the threads by others that you tick. Check out the pull request head (`gh pr checkout 123`) before the agent edits, so the line numbers match.
+
 ## Commands
 
 | Command | What it does |
 |---|---|
 | `review [--base <ref>] [--since-last] [--open]` | Start the review page and keep running. `--open` opens your default browser. A second `review` in the same worktree reuses the running server and prints a new link |
 | `review --reopen` | Print a new one-time link for the running page |
+| `review --pr <number\|URL> [--open]` | Review a GitHub pull request (needs `gh`). One server per worktree: stop a running review of something else first |
 | `comments [--json] [--round N]` | Print the rounds not delivered yet (oldest first) and mark them delivered. With nothing new, it shows the last round again, marked "already delivered" |
 | `wait` | Wait for the next **Send to agent**, then print it like `comments`. Returns at once if a round is already waiting |
 | `mark --rev <id>` | Treat a review render as the last review, for `--since-last` |
 | `show --rev <id> [--side old\|new] <path> [<start>-<end>]` | Print the source lines of either side of a review render (default: new) |
-| `stop [--clean]` | Stop the server. `--clean` also removes this worktree's saved state |
+| `stop [--clean]` | Stop the server. `--clean` also removes this worktree's saved state and the fetched pull request refs (`refs/markdown-diff-cat/`) |
 | `skill install [--user\|--project] [--check]` | Install the agent skill, or check that installed copies match this version |
 
 ## Use it with an agent
@@ -67,10 +83,10 @@ In the handoff, quoted source and comments by others are marked as untrusted dat
 
 ## Privacy and security
 
-- **Nothing leaves your machine by default.** The server listens only on `127.0.0.1` and `::1`, and the page talks only to it. Remote images stay blocked until you press **Show remote images**. A pull request mode is planned; it will reach GitHub only through the GitHub CLI (`gh`).
+- **Nothing leaves your machine by default.** The server listens only on `127.0.0.1` and `::1`, and the page talks only to it. Remote images stay blocked until you press **Show remote images**. Pull request mode reaches GitHub only through the GitHub CLI (`gh`), which keeps your credentials; this tool never reads a token. Comment text goes to `gh` as JSON on standard input, never as a command-line argument.
 - The printed link carries a one-time code that expires after about two minutes. The page swaps it for a secret kept in that browser tab only, so a link left in your terminal or chat history cannot be reused. No cookies.
 - The server accepts only `localhost`, `127.0.0.1`, and `[::1]` as the host, rejects requests from other origins, and serves the page under a strict Content Security Policy. HTML in your Markdown is sanitized.
-- It reads git without writing to `.git`, and it does not follow symbolic links out of the repository.
+- It reads git without writing to `.git` (pull request mode writes only the fetched refs under `refs/markdown-diff-cat/`), and it does not follow symbolic links out of the repository.
 - Its state (review renders, comment rounds, drafts) lives in `${XDG_STATE_HOME:-~/.local/state}/markdown-diff-cat/` (folders `0700`, files `0600`), never in your working tree or `.git`. `MDC_STATE_DIR` moves it, `stop --clean` removes this worktree's part, and the folders of worktrees that no longer exist are removed when `review` starts.
 - The server stops by itself after 8 hours without activity.
 

diff --git a/docs/releases/UNRELEASED.md b/docs/releases/UNRELEASED.md
@@ -2,4 +2,4 @@
 
 1.6.0 was published to the Chrome Web Store, GitHub Releases and npm on 2026-10-22 ([notes](v1.6.0.md)). When the next version is submitted, its release notes (`pnpm release notes` → `docs/releases/vX.Y.Z.md`) start from this list; empty this file in the same pull request.
 
-Nothing yet.
+- Local review CLI `markdown-diff-cat`: pull request mode, `review --pr <number|URL>`. It shows a GitHub pull request in the same review page (fetched into `refs/markdown-diff-cat/pr/<number>/`, compared from the merge base the way "Files changed" does), places existing review threads under their blocks, and lets you reply. Your comments go to **your pending review** on GitHub only when you press **Add to pending review** and confirm; you submit the review on GitHub. Comments outside the pull request's diff are trimmed to the changed lines or become whole-file comments with the quoted lines. **Send to agent** also works, with the threads by others that you tick. Needs the GitHub CLI (`gh`) signed in. The Chrome extension itself does not change.
